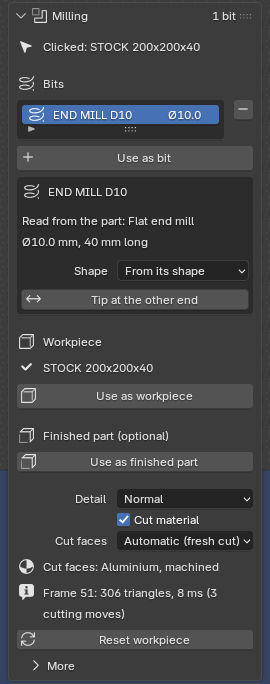
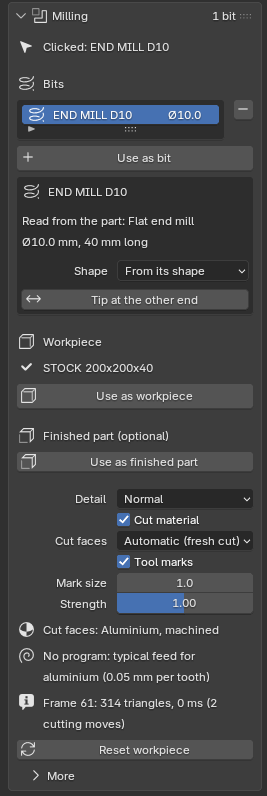
Tool marks: test tour stop, PC-check line, guide section with pictures (task 0061, part F)
- Test tour: a new set "Tool marks" on the test mill (a Ø50 face mill faces a strip, a Ø10 end mill cuts a
  pocket in two depths, a drill makes a hole; Mark size 7, sawn aluminium block) and the stop "Tool marks on
  cut faces" in the Machining group. Its check counts the cut faces with arcs, wall lines and rings, and that
  the face mill's arcs are F / S apart (0.30 mm). MIN_LINES_TOUR and MIN_CHECKS["tour"] 42 -> 43.
- PC check: line milling.marks (Full) runs the same program, checks the marks, the Tool marks tick off and on,
  renders a close-up and measures the time to rebuild the milled block with and without marks.
  MIN_LINES_FULL 57 -> 58. Its "since" is 0.2.73: tests/test_pccheck.py::test_every_line_is_complete passes
  once the version is raised.
- Guide: Milling > Tool marks (what shows, the three settings, where the distance between the marks comes
  from), the picture milling_marks.jpg (the tour set, test mill) and the Milling panel picture with its new rows.

The program lifts the head to Z50 before each tool change: after a manual change the head comes back to where
it was, and from Z10 the longer tool dived 16 mm into the block (the "tools" set has that hole today).
The pocket's second depth is 0.3 mm smaller: cut along exactly the same wall, the deeper pass takes the whole
wall and no line shows where the depths meet.

Claude-Session: https://claude.ai/code/session_01LGPBd6cuTkLSqG97iHjXAD

Changed region(s): [[0.0, 0.0, 1.0, 1.0], [0.779, 0.0, 0.8989, 0.0307], [0.8989, 0.1228, 0.9288, 0.1535]]

diff --git a/fresing_render/blender/tour.py b/fresing_render/blender/tour.py
@@ -886,6 +886,7 @@ def _check_decals(scene):
 
 
 MILL_SLOT = (("Z", 0.0, 0.8, -25.0), ("X", 0.8, 1.6, 60.0))
+MARKS_ANIM = "Tool marks"
 
 
 def _mill_set(b: Build, chips: str = "", raw: str = ""):
@@ -1686,6 +1687,135 @@ def _check_hand(scene):
     return "the gloved hand holds the tool"
 
 
+# tool marks (task 0061): the same rules as above - every cut lies in the finished part's pocket (x -50..50,
+# y -30..30, 10 deep) and the face mill stays at X-10 or more. The face mill leaves a strip 80 x 50 mm, 1 mm deep; the
+# end mill cuts a pocket 50 x 16 mm at the front of it in two depths (3 and 5 mm); the drill makes one hole behind
+# the pocket. The second depth is 0.3 mm smaller all round, like a tool that bends leaves it: that step is the line
+# round the wall. (Cut along exactly the same wall, the deeper pass goes over the whole wall again and the wall shows
+# one depth only.) At the end the head goes up and to the left, out of the picture.
+# Before each tool change the head goes up to Z50: after a change the head comes back to where it was, and the end
+# mill and the drill are longer than the face mill - from Z10 the longer tool would dive into the block.
+MARKS_FEED, MARKS_SPEED = 900.0, 3000.0          # the face mill: 900 mm/min at 3000 rpm = 0.30 mm per turn
+MARKS_SIZE = 7.0                                 # Mark size of the set: the arcs show in a close-up
+MARKS_CAMERA = 0.125                             # m from the camera to the middle of the faced strip
+MARKS_TOUR = f"""(TOOL MARKS: FACE MILL, END MILL, DRILL - BT30)
+G21 G90 G94 G17 G54
+T1 M6 G43 H1
+S{MARKS_SPEED:g} M3
+G0 X-10 Y0 Z5
+G1 Z-1 F{MARKS_FEED:g}
+G1 X20
+G0 Z50
+M5
+T2 M6 G43 H2
+S4000 M3
+G0 X-20 Y-17 Z5
+G1 Z-3 F400
+G1 X20 F1200
+G1 Y-11
+G1 X-20
+G1 X-19.7 Y-11.3
+G1 Z-5 F400
+G1 X19.7 F1200
+G1 Y-16.7
+G1 X-19.7
+G0 Z50
+M5
+T3 M6 G43 H3
+S2400 M3
+G0 X25 Y8 Z5
+G81 Z-7 R2 F300
+G80
+G0 Z60
+G0 X-90 Y0
+M5
+M30
+"""
+
+
+@tour_set("marks", "Tool marks", "test_mill.step")
+def build_marks(b: Build):
+    from mathutils import Vector
+
+    from . import gcode, machining, tools
+    sc = b.scene
+    _look("PRODUCT")
+    _xyz(sc)
+    gcode.find_axes(sc)
+    tool, stock = _ob(sc, "END MILL D10"), _ob(sc, "STOCK 200x200x40")
+    gcode.use_tool(sc, tool)
+    gcode.use_workpiece(sc, stock)
+    _check(gcode.problem(sc) == "", f"the CNC set-up is not ready: {gcode.problem(sc)}")
+    _pick("bit", tool)
+    _pick("workpiece", stock)
+    g = sc.fresing.groups.get(stock.get("fr_group", ""))
+    _check(g is not None, "the block has no material group in 3 Looks")
+    g.material = "aluminium_sawn"                  # a sawn aluminium plate: its cut faces are bright machined metal
+    m = machining.settings(sc)
+    m.marks, m.marks_size, m.marks_strength = True, MARKS_SIZE, 1.0
+    face = tools.add_row(sc, "FACE", 1)
+    face.diameter, face.length, face.holder, face.holder_length = 0.05, 0.085, "BT30", 0.045
+    face.lead_angle = 1.5707963
+    end = tools.add_row(sc, "FLAT", 2)
+    end.diameter, end.length, end.holder, end.holder_length = 0.01, 0.098, "BT30", 0.06
+    drill = tools.add_row(sc, "DRILL", 3)
+    drill.diameter, drill.length, drill.holder, drill.holder_length = 0.0085, 0.09, "BT30", 0.06
+    a = _animation(b, MARKS_ANIM)
+    _gcode_step(a, _program(b, "Tour tool marks.ngc", MARKS_TOUR), sc, gcode_speed="FIT", gcode_fit=10.0,
+                gcode_tc_time=0.6, gcode_path=False)
+    # close and low over the faced strip, so the sheen of the arcs shows
+    _update()                                      # (the work zero is new: its place is known after an update)
+    zero = gcode.settings(sc).zero_empty.matrix_world.translation
+    centre = zero + Vector((0.005, 0.0, -0.002))
+    cam = _close_camera(b, centre, 0.05, "Tour tool marks", view="ISO")
+    _update()
+    away = cam.matrix_world.translation - centre   # nearer than the fit goes: the strip fills the picture
+    cam.location = centre + away.normalized() * MARKS_CAMERA
+    cam.data.clip_start = 0.01
+    a.start_shot = _shot(b, "Tour: tool marks").name
+
+
+def _check_marks(scene):
+    import numpy as np
+
+    from ..core import toolmarks as tm
+    from . import machining, toolmarks
+    scene.frame_set(scene.frame_end)
+    me = _milled(scene)
+    stock = _ob(scene, "STOCK 200x200x40")
+    _check(me is not None and stock.data is me, "the block does not show its cut")
+    _check(machining.settings(scene).marks, "Tool marks is switched off in 4 Motion > Milling")
+    _check(all(k in me.attributes for k in tm.ATTRS), "the milled block does not know which move made its cut faces")
+    p = np.empty(len(me.polygons) * 3, np.float32)
+    me.attributes[tm.ATTR_P].data.foreach_get("vector", p)
+    p = p.reshape(-1, 3)
+    kind = np.rint(p[:, 0]).astype(int)
+    count = {k: int((kind == k).sum()) for k in (tm.ARCS, tm.FLANK, tm.RINGS, tm.RINGS_WALL)}
+    _check(count[tm.ARCS] > 0, "no cut face has the arcs of a tool's flat bottom")
+    _check(count[tm.FLANK] > 0, "no wall has the lines of a tool's side")
+    _check(count[tm.RINGS] + count[tm.RINGS_WALL] > 0 and count[tm.RINGS] > 0, "the drilled hole has no rings")
+    faced = (kind == tm.ARCS) & (np.abs(p[:, 1] - 0.025) < 0.0005)        # under the Ø50 face mill
+    _check(bool(faced.any()), "no face of the faced strip has the face mill's arcs (radius 25 mm)")
+    gap, want = float(np.median(p[faced, 2])) * 1000.0, MARKS_FEED / MARKS_SPEED
+    _check(abs(gap - want) < 0.01 * want, f"the face mill's arcs are {gap:.3f} mm apart, the program gives "
+                                          f"F{MARKS_FEED:g} / S{MARKS_SPEED:g} = {want:.2f} mm")
+    floor = (kind == tm.ARCS) & (np.abs(p[:, 1] - 0.005) < 0.0005)        # under the Ø10 end mill
+    _check(bool(floor.any()), "the pocket's floor has no arcs of the end mill (radius 5 mm)")
+    o = np.empty(len(me.polygons) * 3, np.float32)
+    me.attributes[tm.ATTR_O].data.foreach_get("vector", o)
+    wall = (kind == tm.FLANK) & (np.abs(p[:, 1] - 0.005) < 0.0005)        # the end mill's side: the pocket's walls
+    depths = np.unique(np.round(o.reshape(-1, 3)[wall, 2], 4))            # (the tip's height during each move)
+    _check(len(depths) >= 2, "the pocket's walls show one depth only, the program cut them in two")
+    n = int(me.get(machining.CUT_SLOT, -1))
+    mat = stock.material_slots[n].material if 0 < n < len(stock.material_slots) else None
+    _check(mat is not None and toolmarks.group_node(mat) is not None, "the cut faces' material draws no tool marks")
+    size = toolmarks.group_node(mat).inputs["Size"].default_value
+    _check(abs(size - MARKS_SIZE) < 1e-6, f"Mark size is {size:g} in the material, not {MARKS_SIZE:g}")
+    return (f"arcs {gap:.2f} mm apart on the faced strip (F{MARKS_FEED:g} S{MARKS_SPEED:g}), finer arcs on the "
+            f"pocket floor, lines on the walls, rings in the hole; {count[tm.ARCS]} / {count[tm.FLANK]} / "
+            f"{count[tm.RINGS] + count[tm.RINGS_WALL]} cut faces with arcs / lines / rings, drawn x{MARKS_SIZE:g}")
+
+
 AIR_TOUR = """(T1 D=10. CR=0. - flat end mill)
 G21 G90 G94 G17
 S9000 M3
@@ -1932,6 +2062,14 @@ stop("hand", MACH, "tools", "Tool change by hand (BT30)",
      "At a tool change the head goes up, a gloved hand takes the tool out by its BT30 holder and puts the next one "
      "in.", where="4 Motion > CNC machine > Tool changes (Manual, Show hand)", animation="Three tools",
      at=-1.0, check=_check_hand)
+stop("marks", MACH, "marks", "Tool marks on cut faces",
+     "A close-up of the milled aluminium block. The faced strip shows the wide arcs of the Ø50 face mill, bulging the "
+     "way it went; the pocket's floor shows the finer arcs of the Ø10 end mill; its walls show fine upright lines and "
+     "a level line where the second depth starts (cut 0.3 mm smaller); the drilled hole shows rings. Look in "
+     "rendered view and orbit: the sheen swirls with the arcs. The marks are drawn 7 times further apart than real "
+     "(Mark size) so they show.",
+     where="4 Motion > Milling (Tool marks, Mark size, Strength)", since="0.2.73", animation=MARKS_ANIM, at=1.0,
+     check=_check_marks)
 stop("atc", MACH, "atc", "Tool changer: 8-pocket carousel",
      "The tools stand in their pockets from the first frame; at each change the carousel turns the shortest way, "
      "the right pocket comes to the spindle and the old tool goes back to its own pocket.",

diff --git a/fresing_render/pccheck/checks.py b/fresing_render/pccheck/checks.py
@@ -1972,6 +1972,78 @@ def milling_tools(ctx):
             f"{lift:.2f} mm; {per:.0f} ms per frame")
 
 
+@line("milling.marks", "Milling: tool marks on the cut faces", "0.2.73",
+      what="The test mill runs the test tour's three-tool program: a Ø50 face mill faces a strip, a Ø10 end mill "
+           "cuts a pocket in two depths, a drill makes a hole. Every cut face must know the tool that made it "
+           "(arcs on the floors, lines on the walls, rings in the hole; the face mill's arcs as far apart as the "
+           "program's feed and speed say) and the cut faces' material must draw the marks; the Tool marks tick takes "
+           "them off and puts them back. A close-up of the cut (processor, draft) and the time to rebuild the "
+           "milled block for a frame, with and without marks")
+def milling_marks(ctx):
+    import statistics
+
+    from ..blender import animation, machining, render, toolmarks, tour
+    from ..core import toolmarks as tm
+    machining._RUNTIME.clear()
+    scene = ctx.fresh(MILL)
+    tour.build_marks(tour.Build(scene, ctx.work, "pccheck"))
+    a = scene.fresing.animations.get(tour.MARKS_ANIM)
+    _check(a is not None, "the animation with the program is missing")
+    r = animation.bake(scene, a)
+    _check(not r["warnings"], "; ".join(r["warnings"][:2]))
+    frames = r["frames"]
+    machining.sample(scene)
+    note = tour._check_marks(scene)          # arcs, lines and rings are there; the face mill's arcs are F / S apart
+    source = machining.marks_source(scene)
+    _check("program" in source and not source.startswith("No program"),
+           f"the Milling panel does not say the marks come from the program: '{source}'")
+    m = machining.settings(scene)
+    stock = _ob(scene, "STOCK 200x200x40")
+
+    def has_marks():
+        """(the milled mesh knows the moves, the cut faces' material draws marks) as they are now."""
+        me = m.cut_mesh
+        n = int(me.get(machining.CUT_SLOT, -1))
+        _check(0 < n < len(stock.material_slots), "the milled block has no material slot for cut faces")
+        return (all(k in me.attributes for k in tm.ATTRS),
+                toolmarks.group_node(stock.material_slots[n].material) is not None)
+
+    def rebuild():
+        """Median time to write the milled block again for a frame, ms (six frames across the program, each
+        three times)."""
+        shown = sorted({max(1, round(frames * k / 8)) for k in range(3, 9)})
+        for f in shown:                                      # once without the clock: every cut is worked out
+            machining.refresh(scene, frame=f, force=True)
+        times = []
+        for f in shown * 3:
+            t1 = time.perf_counter()
+            _check(machining.refresh(scene, frame=f, force=True), machining.status(scene) or "no milled block")
+            times.append((time.perf_counter() - t1) * 1000.0)
+        return statistics.median(times)
+
+    _check(has_marks() == (True, True), "the cut faces have no tool marks although Tool marks is ticked")
+    with_marks = rebuild()
+    m.marks = False
+    _check(has_marks() == (False, False), "Tool marks is switched off, but the cut faces still carry the marks")
+    without = rebuild()
+    m.marks = True
+    _check(has_marks() == (True, True), "Tool marks switched on again did not bring the marks back")
+    ctx.metric("rebuild with marks", with_marks, "ms")
+    ctx.metric("rebuild without marks", without, "ms")
+    # the picture: the tour stop's close-up of the faced strip, the pocket and the hole at the end of the program
+    scene.frame_set(scene.frame_end)
+    machining.refresh(scene, force=True)
+    s = scene.fresing
+    s.use_gpu = False
+    s.out_resolution = "preview"
+    path = os.path.join(ctx.work, "marks.png")
+    info = render.render_still(scene, s, "draft", filepath=path)
+    ctx.picture(path, "marks", f"Tool marks: faced strip, pocket, drilled hole; drawn x{m.marks_size:g} "
+                               "(processor, draft)", model_check=False, width=480)
+    ctx.metric("still with marks", info["seconds"], "s")
+    return f"{note}; rebuilt in {with_marks:.0f} ms per frame ({without:.0f} ms without marks)"
+
+
 @line("milling.toolpath", "Milling: the app makes the toolpath", "0.2.55",
       what="The toolpath test model: a block and the finished part (pocket, rounded boss, dome, a cap that hangs "
            "over, a hole). The app makes the roughing (flat Ø10) and finishing (ball Ø10) program at Draft, adds its "

diff --git a/tools/ci_real_app.py b/tools/ci_real_app.py
@@ -59,7 +59,7 @@ RESULT_RE = re.compile(r"RESULT (\d+)/(\d+)")
 # Raise these when a test gets new checks (never lower them without saying why in the commit).
 MIN_CHECKS = {"ui1": 32, "ui2": 50, "faces": 10, "decals": 13, "surroundings": 23, "rulesets": 17, "studio": 21,
               "milling": 25, "video": 14, "callouts": 15, "cylinder": 22, "linkage": 25, "waycover": 16, "gcode": 29,
-              "paths": 8, "pccheck": 37, "pccheck2": 2, "pccheckheavy": 13, "update": 29, "tour": 42, "tourui": 15,
+              "paths": 8, "pccheck": 37, "pccheck2": 2, "pccheckheavy": 13, "update": 29, "tour": 43, "tourui": 15,
               "doublearm": 19, "clash": 21, "vessel": 15}
 MIN_CHECKS_QUICK = {"ui1": 27, "surroundings": 17, "studio": 20, "video": 9, "callouts": 8}   # UITEST_QUICK=1 skips renders and the queue
 

diff --git a/tools/ci_check_pccheck.py b/tools/ci_check_pccheck.py
@@ -21,9 +21,9 @@ import sys
 
 ROW = re.compile(r"^(?:NEW )?\[(?P<tag> OK |FAIL|SKIP)\] (?P<id>[\w.]+) (?P<secs>[\d.]+) s(?P<rest>.*)$")
 ALLOWED_SKIP = "no graphics card"
-MIN_LINES_FULL = 57          # raise it when the check gets new lines
+MIN_LINES_FULL = 58          # raise it when the check gets new lines
 MIN_LINES_HEAVY = 13         # the Heavy lines (task 0033)
-MIN_LINES_TOUR = 42          # the test tour: Make test tour project + one line per stop (task 0059)
+MIN_LINES_TOUR = 43          # the test tour: Make test tour project + one line per stop (task 0059)
 
 
 def judge(text: str, min_lines: int = MIN_LINES_FULL) -> tuple[list[tuple[str, str, str, str]], list[str]]:

diff --git a/docs/USER-GUIDE.md b/docs/USER-GUIDE.md
@@ -949,7 +949,7 @@ Good to know
   as the block. **Same as the block** shows the cut in the block's own look; **Pick a material…** takes
   any ready-made material (one that takes a colour uses the block group's colour). The line under it says
   what the cut faces show. A face of the block that is only partly cut keeps the block's look. Renders in
-  the queue show the same.
+  the queue show the same. Cut faces also show the marks of the tool: see **Tool marks** below.
 - A logo or text on the block (3 Looks > Logos & stickers) stays where it is while milling, and can be
   changed as usual.
 - After a change to the animation the cut is read again by itself (in the render queue too, before
@@ -959,6 +959,59 @@ Good to know
 - Straight moves are cheap; curved moves (arcs) cost more. Measured on the 2-core test machine with a
   200 × 200 mm block: about 4 ms per frame for a zig-zag pocket with a flat Ø10 bit, 11 ms with a
   ball Ø10, about 11 ms for a round pocket made of short pieces.
+
+#### Tool marks
+
+<img class="wide" src="img/milling_marks.jpg" alt="Close-up of the milled test block: the wide arcs of a face mill on a faced strip, a pocket with finer arcs on its floor and lines on its walls, a drilled hole with rings">
+
+A cut face shows the marks of the tool that made it, in the direction the tool went – like a real part off
+the machine. The picture is the test mill after a Ø50 face mill, a Ø10 end mill and a drill, with the marks
+drawn 7 times further apart than real.
+
+What you see
+
+- A **faced top** shows arcs with the tool's radius that follow the path and bulge the way the tool went. A
+  **pocket floor** shows the same arcs, finer and smaller.
+- **Walls** show fine upright lines, one per tooth. Where a deeper pass leaves a small step in a wall, the
+  step shows as a line round it (in the picture the second depth is cut 0.3 mm smaller). Depths cut along
+  exactly the same wall look like one wall: the deeper pass goes over all of it again.
+- A **drilled hole** shows rings, on its wall and on its bottom. So does a spot where a tool only went
+  straight down.
+- A ball end mill and a corner radius leave fine lines across each pass, a chamfer mill lines along it.
+- The **sheen** follows the marks: on a faced top the bright band swirls with the arcs when the camera or the
+  light moves. Cut faces no longer show dark patches in reflections.
+- An area that a later tool cuts again shows the new tool's marks; everything else keeps the old ones.
+
+The settings are in 4 Motion > **Milling**, under **Cut faces**. They show whenever the cut faces have a look
+of their own (not with **Same as the block**):
+
+- **Tool marks**: on by itself, also in projects from an older version. Untick it for the plain machined look
+  on every cut face.
+- **Mark size**: **1** is real. Real marks are often only 0.05 to 0.3 mm apart, so in a picture of the whole
+  machine you see the sheen and not the single marks – as on a real part from that distance. For a close-up,
+  raise it (up to **10**) until the arcs show.
+- **Strength**: how deep the marks look. **1** is a normal fresh cut; lower for a fine finishing cut, higher
+  for a rough one. The material counts too: crisp on aluminium, finer on steel, dull on cast iron, faint on
+  plastic.
+
+Changing Mark size or Strength shows at once; nothing is worked out again.
+
+Where the distance between the marks comes from
+
+- With a **Run G-code program** step: from the program's feed (F) and spindle speed (S) and the tool's number
+  of teeth. F900 at S3000 with a face mill gives one arc every 0.3 mm; an end mill with 3 flutes at the same
+  feed and speed gives a mark every 0.1 mm.
+- Without a program (the bit is moved by joint steps): a typical feed for what the block is made of, for
+  example 0.05 mm per tooth in aluminium, 0.03 mm in steel.
+- The line under the settings says which one is used: "Marks from the program: F900 S3000, 5 inserts" or "No
+  program: typical feed for aluminium (0.05 mm per tooth)".
+
+Good to know
+
+- The marks need no **Auto Run Python Scripts** and show everywhere the cut shows: in the view (rendered
+  view), while you scrub or play, in pictures, turntables and renders in the queue.
+- A save, a reopen and a model update keep them.
+- Look at them in rendered view: the grey solid view shows no materials.
 
 #### Chips
 
